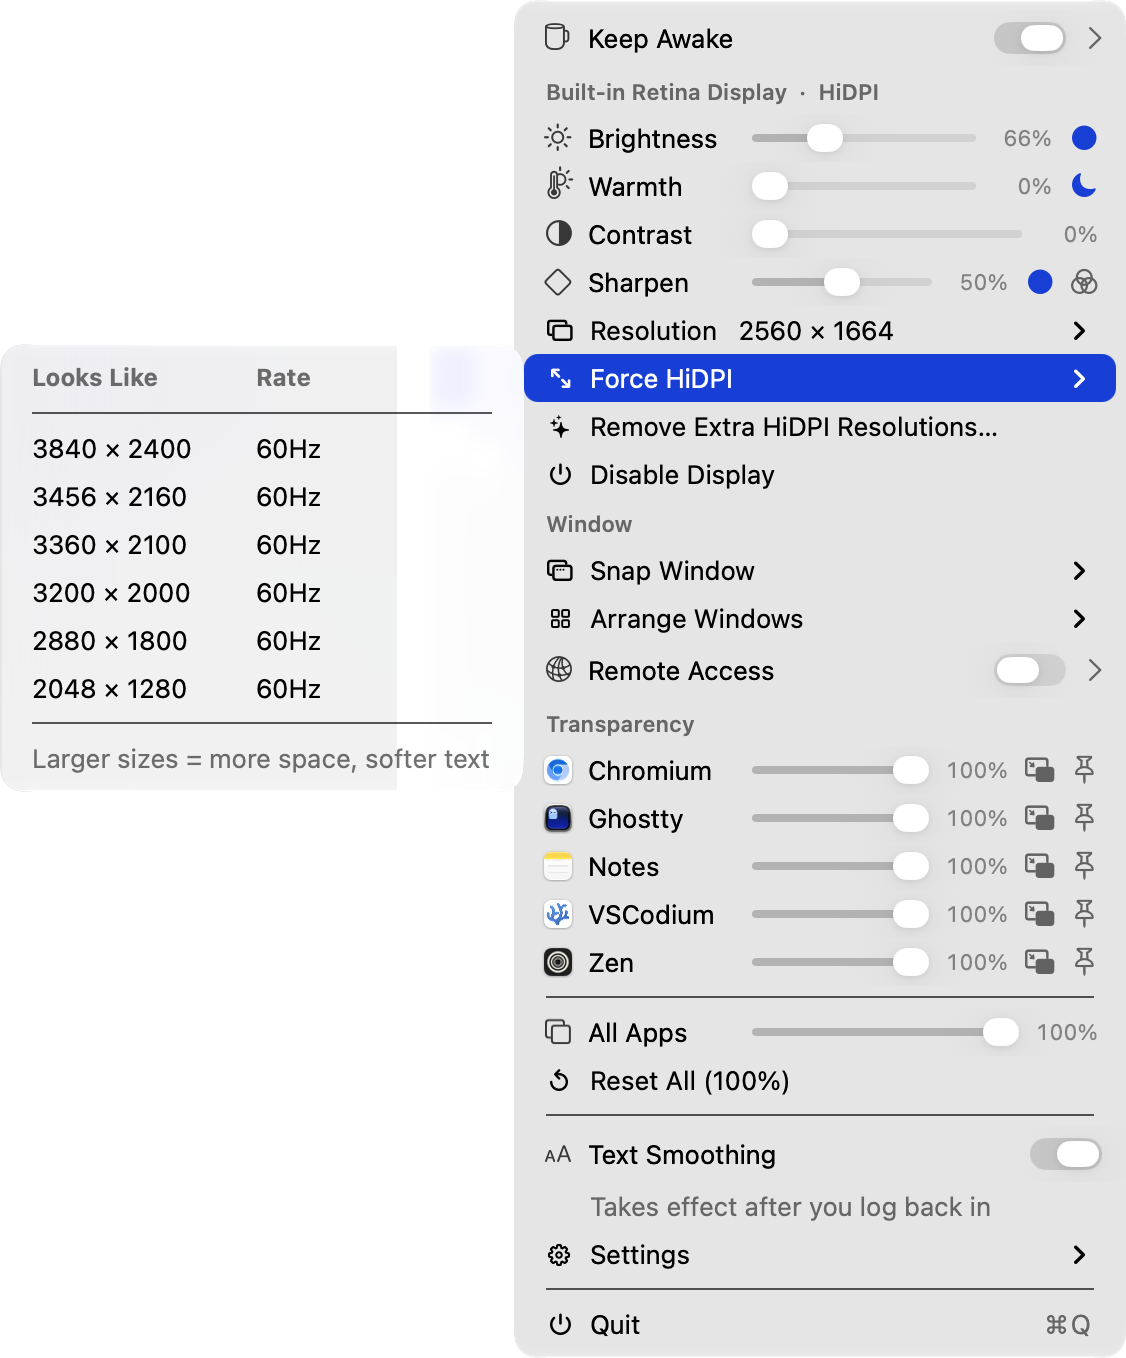
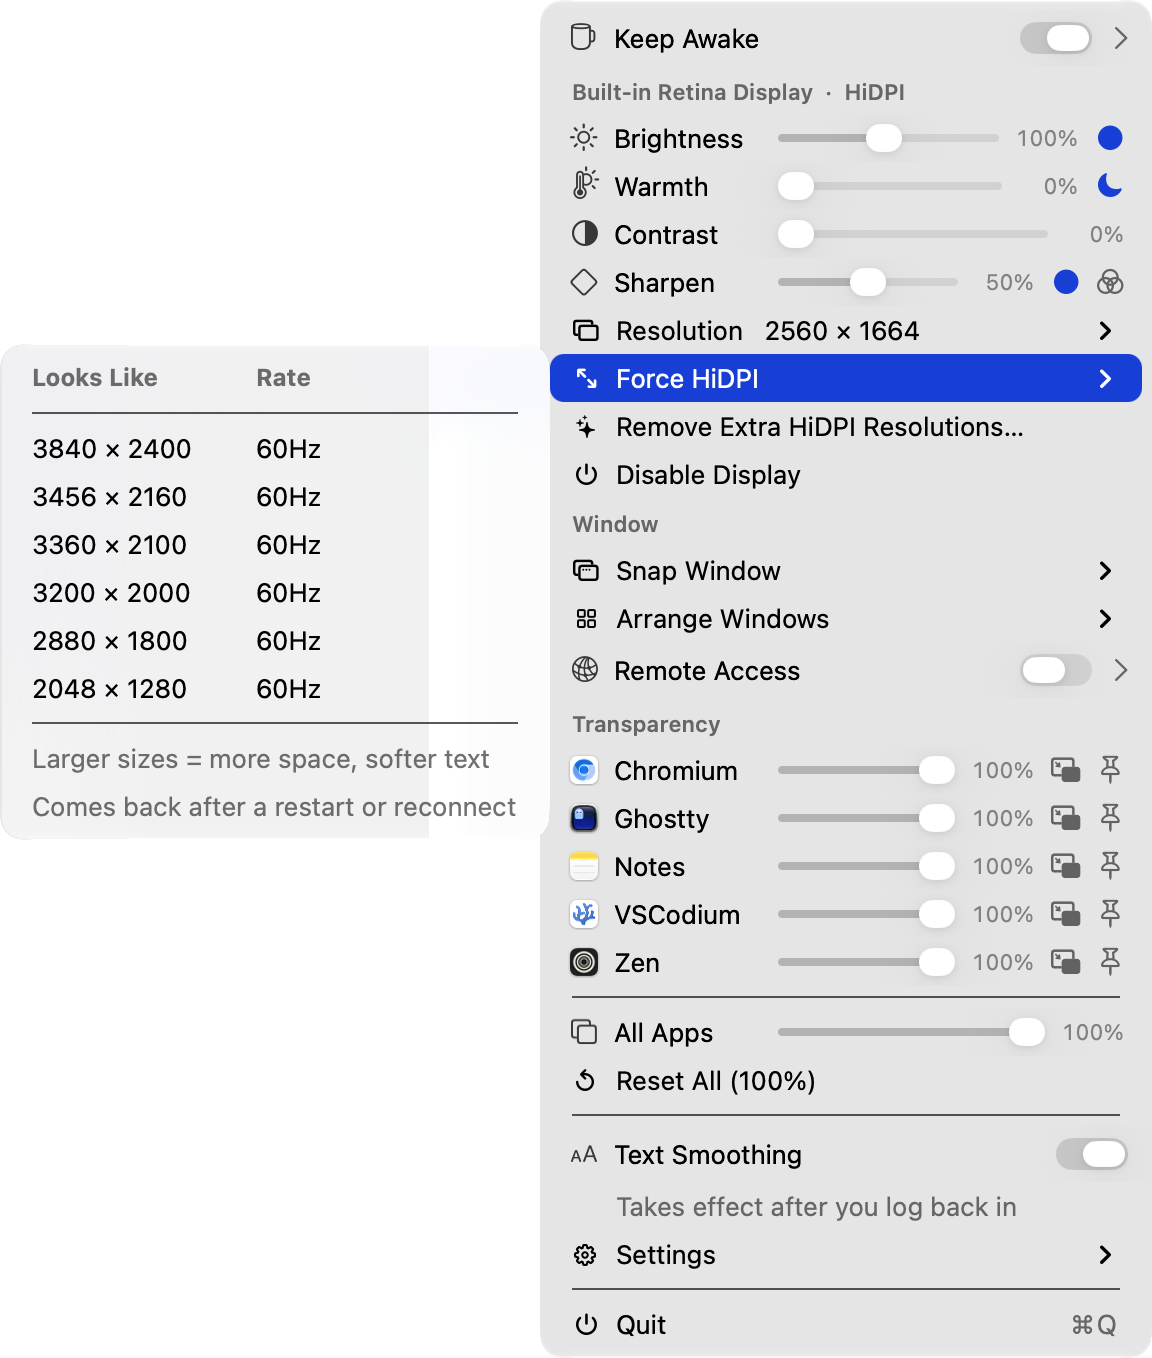
v2.8.13: Force HiDPI is remembered, switchable while forced

diff --git a/docs/index.html b/docs/index.html
@@ -35,7 +35,7 @@
         "processorRequirements": "Apple Silicon",
         "url": "https://displaydeck.pyxis3.ai/",
         "downloadUrl": "https://github.com/pyxis3-ai/displaydeck/releases/latest",
-        "softwareVersion": "2.8.12",
+        "softwareVersion": "2.8.13",
         "license": "https://opensource.org/licenses/MIT",
         "author": { "@type": "Organization", "name": "PYXIS3" },
         "description": "A tiny macOS menu-bar app: disable screens, force HiDPI, boost brightness past 100%, warm the colors (auto at night), snap and tile windows, make any window transparent or float, reach your Mac from anywhere, and keep it awake.",

diff --git a/src/app/AppDelegate.m b/src/app/AppDelegate.m
@@ -45,6 +45,7 @@ static NSString * const kSharpenAuto    = @"SharpenAuto";
 static NSString * const kSharpenShader  = @"SharpenShader";
 static NSString * const kSharpenShaderOnBattery = @"SharpenShaderOnBattery";
 static NSString * const kDidSetupLogin      = @"DidSetupLoginItem";
+static NSString * const kForcedHiDPI        = @"ForcedHiDPI";
 static NSString * const kSnapShortcuts      = @"WindowSnapShortcuts";
 static NSString * const kSnapDrag           = @"WindowSnapDrag";
 
@@ -249,6 +250,7 @@ static NSAttributedString *ddColumns(NSArray<NSString *> *cols, NSArray<NSNumber
 @property (nonatomic, strong) NSMenu *mainMenu;
 @property (nonatomic, strong) DisplayManager *displayManager;
 @property (nonatomic) BOOL notificationAuthRequested;
+@property (nonatomic) BOOL forceRestoreTried;
 @end
 
 @implementation AppDelegate
@@ -303,10 +305,12 @@ static NSAttributedString *ddColumns(NSArray<NSString *> *cols, NSArray<NSNumber
         [strongSelf performAutoDisableIfNeeded];
         [strongSelf performAutoReenableIfNeeded];
         [strongSelf.displayManager recoverStrandedBuiltIn];
+        [strongSelf restoreForcedHiDPIIfNeeded];
     }];
 
     [self.displayManager recoverStrandedBuiltIn];
     [self performAutoDisableIfNeeded];
+    [self restoreForcedHiDPIIfNeeded];
 }
 
 - (void)applicationWillTerminate:(NSNotification *)notification {
@@ -902,11 +906,19 @@ static NSAttributedString *ddColumns(NSArray<NSString *> *cols, NSArray<NSNumber
         [display.name stringByAppendingString:suffix]]];
 
     if (forced) {
+        [self addBrightnessWarmthToMenu:menu display:display];
+        NSArray<DDDisplayMode *> *options =
+            [self.displayManager forceHiDPIOptionsForDisplay:display.displayID];
+        DDDisplayMode *target = [self.displayManager forcedTargetForDisplay:display.displayID];
+        NSMutableString *title = [NSMutableString stringWithString:@"Force HiDPI"];
+        if (target) [title appendFormat:@"   %@", ddLogicalString(target.logicalWidth, target.logicalHeight)];
+        NSMenuItem *fh = [[NSMenuItem alloc] initWithTitle:title action:nil keyEquivalent:@""];
+        fh.image = ddSymbol(@"arrow.up.left.and.arrow.down.right");
+        fh.submenu = [self buildForceHiDPISubmenuForDisplay:display.displayID options:options];
+        [menu addItem:fh];
         [menu addItem:[self actionItem:@"Stop Forced HiDPI"
                                 action:@selector(stopForcedHiDPI:) displayID:display.displayID
                                 symbol:@"arrow.uturn.backward"]];
-
-        [self addBrightnessWarmthToMenu:menu display:display];
         return;
     }
     if (!display.isActive) {
@@ -1025,13 +1037,17 @@ static NSAttributedString *ddColumns(NSArray<NSString *> *cols, NSArray<NSNumber
     NSFont *bold = [NSFont boldSystemFontOfSize:12];
 
     DDDisplayMode *currentlyForced = [self.displayManager forcedTargetForDisplay:displayID];
+    CGSize panel = [self.displayManager physicalPixelsForDisplay:displayID];
+    __block BOOL hasExact = NO;
 
     NSMenuItem * (^makeRow)(DDDisplayMode *) = ^NSMenuItem *(DDDisplayMode *mode) {
         BOOL isCurrent = (currentlyForced &&
-                          currentlyForced.pixelWidth  == mode.pixelWidth &&
-                          currentlyForced.pixelHeight == mode.pixelHeight);
+                          currentlyForced.logicalWidth  == mode.logicalWidth &&
+                          currentlyForced.logicalHeight == mode.logicalHeight);
         NSString *size = ddLogicalString(mode.logicalWidth, mode.logicalHeight);
         NSString *rate = ddRateString(mode.refreshRate, @"");
+        // Two rendered pixels per panel pixel: the mirror needs no resampling.
+        if (mode.logicalWidth * 2 == (size_t)panel.width) { rate = [rate stringByAppendingString:@"  ★"]; hasExact = YES; }
         NSMenuItem *item = [[NSMenuItem alloc]
             initWithTitle:@""
                    action:isCurrent ? nil : @selector(forceHiDPIAtMode:)
@@ -1053,10 +1069,24 @@ static NSAttributedString *ddColumns(NSArray<NSString *> *cols, NSArray<NSNumber
     [submenu addItem:colHeader];
     [submenu addItem:[NSMenuItem separatorItem]];
 
-    for (DDDisplayMode *m in options) [submenu addItem:makeRow(m)];
+    // While forced, the panel reports the forced size as one of its own, which
+    // drops it from the options; put it back so the current size shows ticked.
+    NSMutableArray<DDDisplayMode *> *rows = [options mutableCopy];
+    if (currentlyForced) {
+        NSUInteger at = 0;
+        BOOL listed = NO;
+        for (DDDisplayMode *m in rows) {
+            if (m.logicalWidth == currentlyForced.logicalWidth && m.logicalHeight == currentlyForced.logicalHeight) listed = YES;
+            if (m.logicalWidth > currentlyForced.logicalWidth) at++;
+        }
+        if (!listed) [rows insertObject:currentlyForced atIndex:at];
+    }
+    for (DDDisplayMode *m in rows) [submenu addItem:makeRow(m)];
 
     [submenu addItem:[NSMenuItem separatorItem]];
+    if (hasExact) [self addLabelToMenu:submenu title:@"★ = pixel-exact (crispest)"];
     [self addLabelToMenu:submenu title:kLargerSizesHint];
+    [self addLabelToMenu:submenu title:@"Comes back after a restart or reconnect"];
 
     return submenu;
 }
@@ -1658,9 +1688,41 @@ static NSAttributedString *ddColumns(NSArray<NSString *> *cols, NSArray<NSNumber
 
 - (void)forceHiDPIAtMode:(NSMenuItem *)sender {
     NSDictionary *info = sender.representedObject;
-    DDDisplayMode *mode = info[@"mode"];
-    CGDirectDisplayID did = [info[@"displayID"] unsignedIntValue];
+    [self forceHiDPIOnDisplay:[info[@"displayID"] unsignedIntValue] mode:info[@"mode"] announce:YES];
+}
+
+// The forced size is remembered per monitor model and put back at launch and
+// when that monitor reconnects, until the user stops it.
+- (void)restoreForcedHiDPIIfNeeded {
+    NSDictionary *saved = [NSUserDefaults.standardUserDefaults dictionaryForKey:kForcedHiDPI];
+    if (!saved) return;
+    DDDisplayInfo *match = nil;
+    for (DDDisplayInfo *d in [self.displayManager allDisplays]) {
+        if ([self.displayManager isHiDPIForcedForDisplay:d.displayID]) return;
+        if (d.isActive && CGDisplayVendorNumber(d.displayID) == [saved[@"vendor"] unsignedIntValue] &&
+            CGDisplayModelNumber(d.displayID) == [saved[@"model"] unsignedIntValue]) match = d;
+    }
+    if (!match) { self.forceRestoreTried = NO; return; }
+    if (self.forceRestoreTried) return;
+    self.forceRestoreTried = YES;
+
+    size_t width = [saved[@"width"] unsignedLongValue], height = [saved[@"height"] unsignedLongValue];
+    for (DDDisplayMode *option in [self.displayManager forceHiDPIOptionsForDisplay:match.displayID]) {
+        if (option.logicalWidth != width || option.logicalHeight != height) continue;
+        [self forceHiDPIOnDisplay:match.displayID mode:option announce:NO];
+        return;
+    }
+}
+
+- (void)forceHiDPIOnDisplay:(CGDirectDisplayID)did mode:(DDDisplayMode *)mode announce:(BOOL)announce {
     NSString *name = [self.displayManager nameForDisplayID:did];
+    // Changing size while forced: let go of the current one first.
+    if ([self.displayManager isHiDPIForcedForDisplay:did])
+        [self.displayManager stopForcedHiDPIForDisplay:did error:NULL];
+    [NSUserDefaults.standardUserDefaults setObject:@{
+        @"vendor": @(CGDisplayVendorNumber(did)), @"model": @(CGDisplayModelNumber(did)),
+        @"width": @(mode.logicalWidth), @"height": @(mode.logicalHeight) } forKey:kForcedHiDPI];
+    self.forceRestoreTried = YES;
 
     __weak __typeof(self) weakSelf = self;
     [self.displayManager forceHiDPIForDisplay:did atMode:mode
@@ -1671,9 +1733,10 @@ static NSAttributedString *ddColumns(NSArray<NSString *> *cols, NSArray<NSNumber
             NSMutableString *body = [NSMutableString stringWithFormat:
                 @"HiDPI enabled for %@ at %@.",
                 name, ddLogicalString(mode.logicalWidth, mode.logicalHeight)];
-            [strongSelf postNotification:@"HiDPI Forced" body:body];
+            if (announce) [strongSelf postNotification:@"HiDPI Forced" body:body];
             [strongSelf rebuildMenu];
         } else {
+            [NSUserDefaults.standardUserDefaults removeObjectForKey:kForcedHiDPI];
             NSLog(@"DisplayDeck: Failed to force HiDPI for 0x%X: %@", did, error);
             [strongSelf postNotification:@"Force HiDPI Failed"
                                     body:error.localizedDescription];
@@ -1686,6 +1749,7 @@ static NSAttributedString *ddColumns(NSArray<NSString *> *cols, NSArray<NSNumber
     NSString *name = [self.displayManager nameForDisplayID:did];
 
     NSError *error = nil;
+    [NSUserDefaults.standardUserDefaults removeObjectForKey:kForcedHiDPI];
     if ([self.displayManager stopForcedHiDPIForDisplay:did error:&error]) {
         [self postNotification:@"HiDPI Stopped"
                           body:[NSString stringWithFormat:

diff --git a/src/display/DisplayManager.h b/src/display/DisplayManager.h
@@ -63,6 +63,7 @@ typedef void (^DDForceHiDPICompletion)(BOOL success, NSError * _Nullable error);
 - (BOOL)hasExternalDisplay;
 - (BOOL)recoverStrandedBuiltIn;
 - (CGSize)nativePanelPixelsForDisplay:(CGDirectDisplayID)displayID;
+- (CGSize)physicalPixelsForDisplay:(CGDirectDisplayID)displayID;
 
 - (BOOL)disableDisplay:(CGDirectDisplayID)displayID error:(NSError **)error;
 - (BOOL)enableDisplay:(CGDirectDisplayID)displayID error:(NSError **)error;

diff --git a/README.md b/README.md
@@ -7,7 +7,7 @@
 
 Disable & enable screens, Force HiDPI, brightness with EDR boost, color warmth (with auto-night), window tiling/snapping, transparency, blur, keep-on-top & picture-in-picture, keep-awake, remote access.
 
-[![Release](https://img.shields.io/badge/release-v2.8.12-2ea44f?style=flat-square)](https://github.com/pyxis3-ai/displaydeck/releases/latest)
+[![Release](https://img.shields.io/badge/release-v2.8.13-2ea44f?style=flat-square)](https://github.com/pyxis3-ai/displaydeck/releases/latest)
 [![License](https://img.shields.io/badge/license-MIT-3da639?style=flat-square)](LICENSE)
 [![Platform](https://img.shields.io/badge/macOS-14%2B-000?style=flat-square&logo=apple&logoColor=white)](#requirements)
 [![Apple Silicon](https://img.shields.io/badge/Apple_Silicon-555?style=flat-square)](#requirements)

diff --git a/CHANGELOG.md b/CHANGELOG.md
@@ -2,6 +2,14 @@
 
 All notable changes to DisplayDeck are documented here. Format follows [Keep a Changelog](https://keepachangelog.com); versions follow [SemVer](https://semver.org).
 
+## [2.8.13] - 2026-10-10
+
+### Added
+
+- **Force HiDPI comes back by itself.** The forced size is remembered per monitor model and re-applied at launch and when that monitor reconnects, until you choose Stop Forced HiDPI.
+- **Switch size while forced.** The Force HiDPI menu stays available with the current size ticked, instead of having to stop first.
+- **★ marks the pixel-exact Force HiDPI size**, where the panel mirrors the picture without resampling.
+
 ## [2.8.12] - 2026-10-10
 
 ### Fixed
